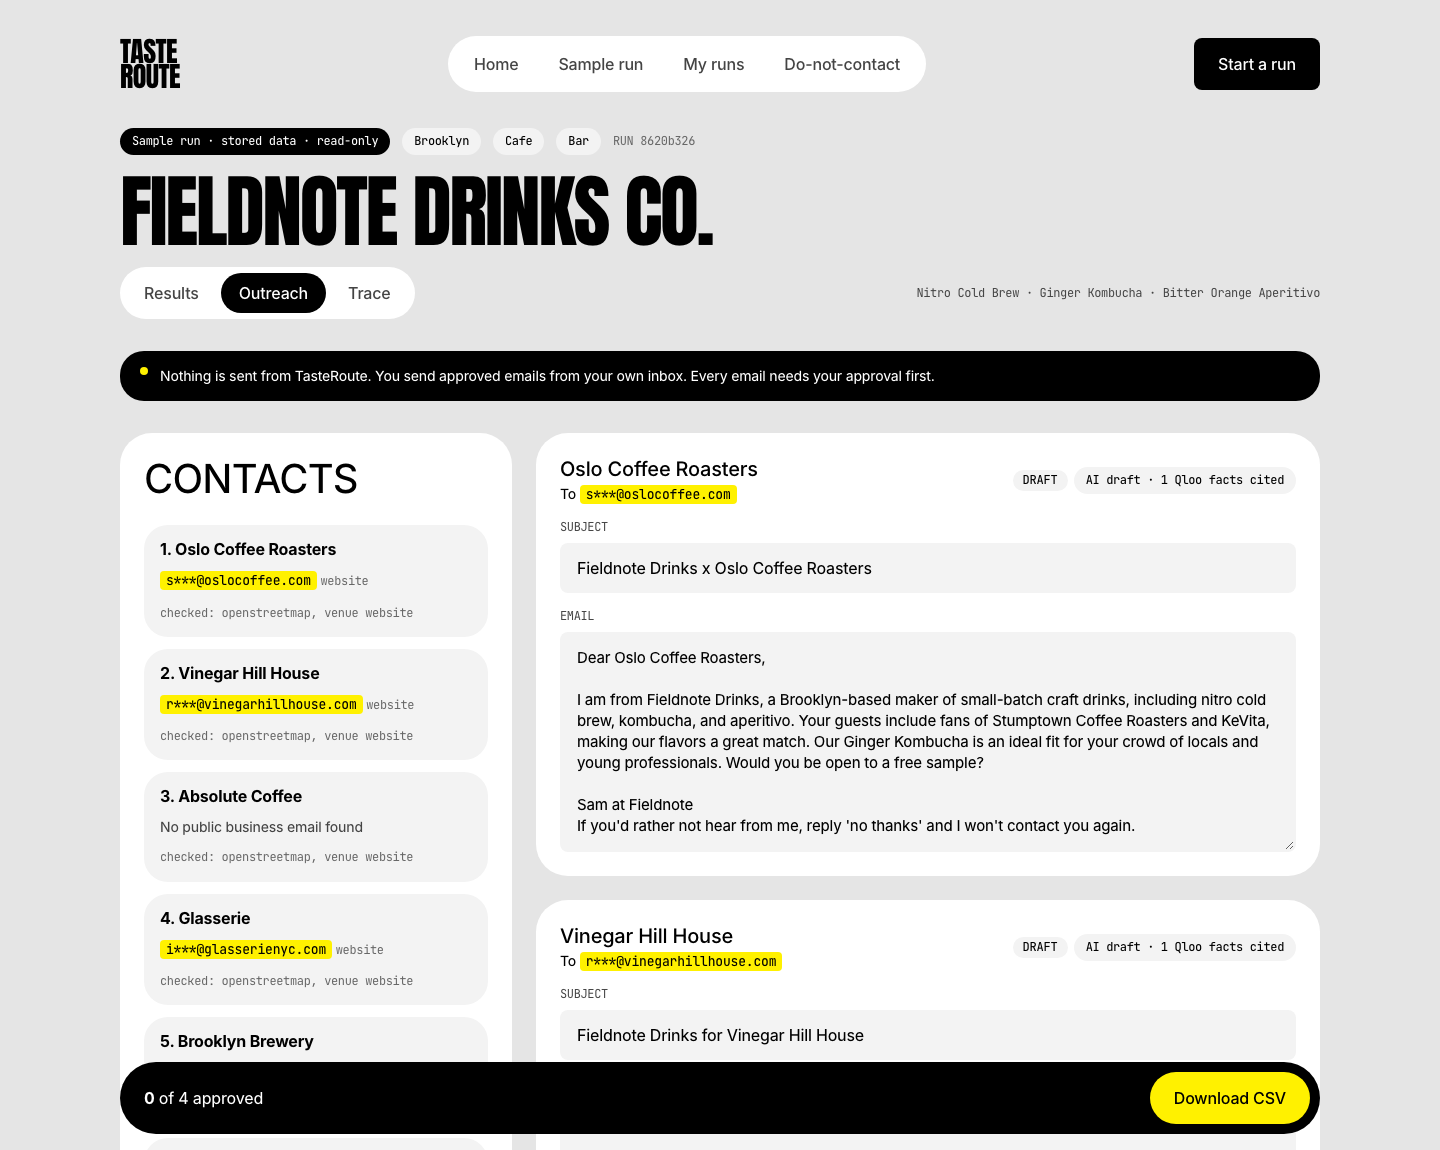
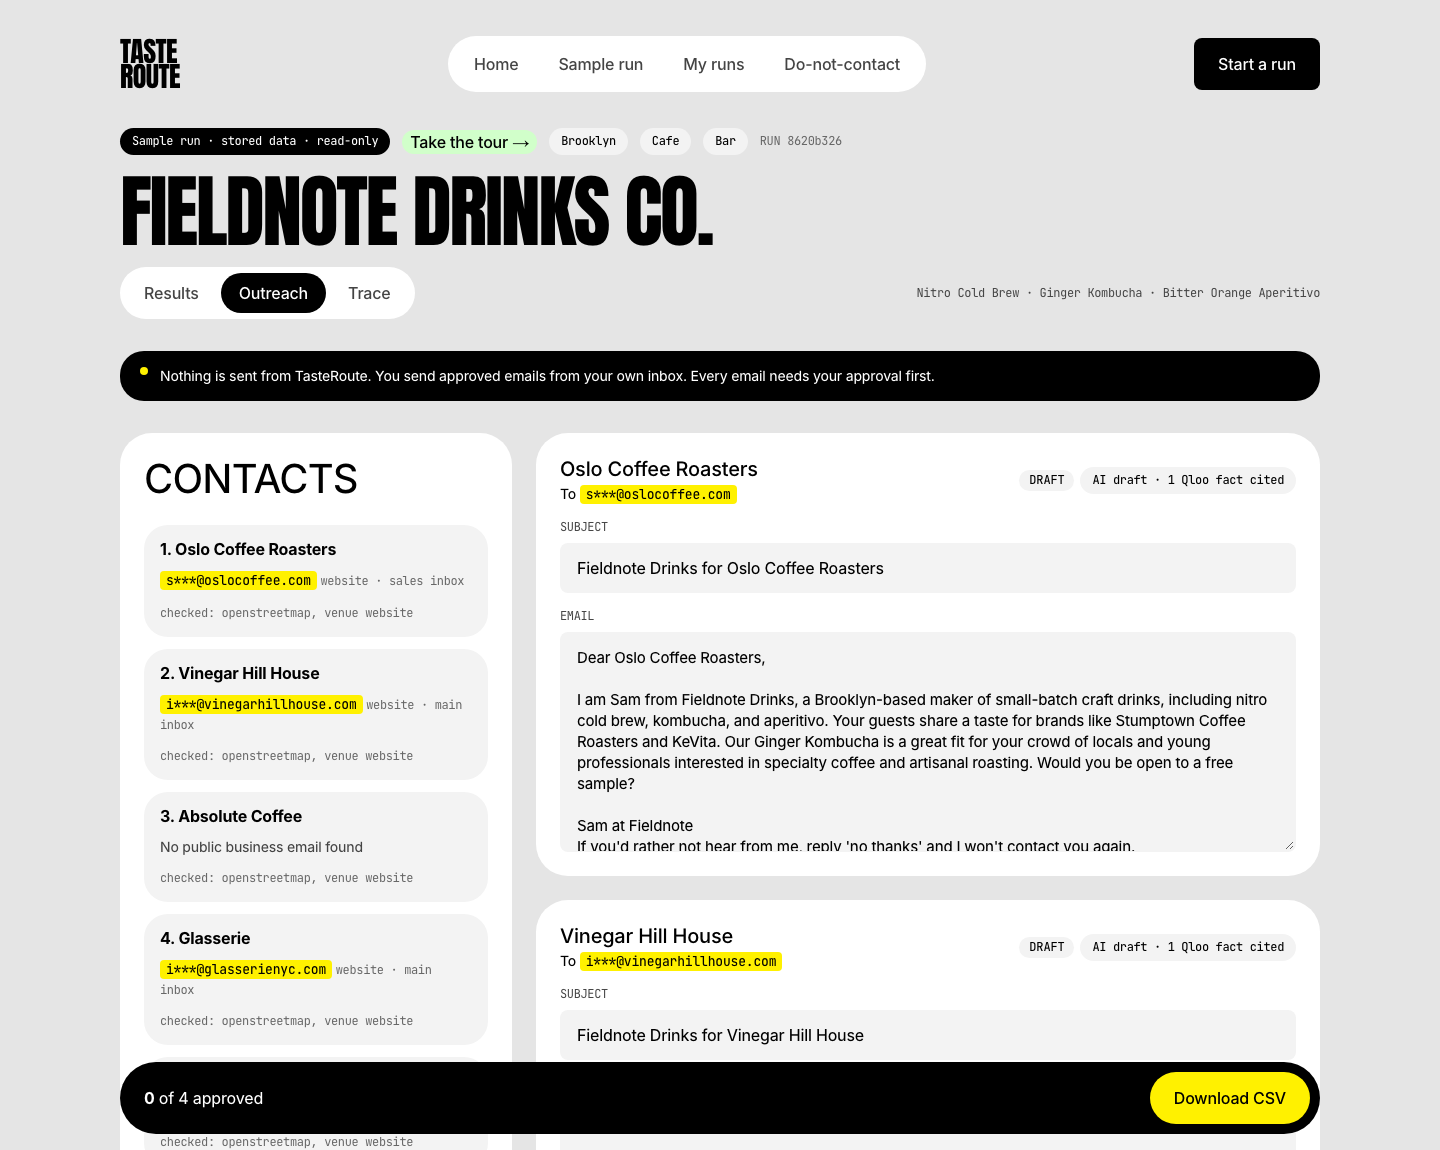
docs: README shows the map and guided tour; fresh screenshots of landing, outreach, trace, start and phone width; '1 Qloo fact cited' [REP-02, UI-01]

diff --git a/apps/web/app/runs/[id]/outreach/page.tsx b/apps/web/app/runs/[id]/outreach/page.tsx
@@ -58,7 +58,7 @@ function DraftEditor({ draft, readOnly, onChange }: { draft: S["DraftOut"]; read
         </div>
         <div className="row" style={{ gap: 6 }}>
           <span className={`status status-${draft.status}`}>{draft.status}</span>
-          <span className="tag tag-mist">{draft.source === "llm" ? `AI draft · ${draft.cited_evidence_ids.length} Qloo facts cited` : "template"}</span>
+          <span className="tag tag-mist">{draft.source === "llm" ? `AI draft · ${draft.cited_evidence_ids.length} Qloo fact${draft.cited_evidence_ids.length === 1 ? "" : "s"} cited` : "template"}</span>
         </div>
       </div>
       <label className="field">

diff --git a/README.md b/README.md
@@ -20,6 +20,7 @@ A small food or drink brand needs its first wholesale accounts. Lists of cafés 
 
 - **Which venues to pitch**, ranked by taste fit, not by how busy they are.
 - **Which product to lead with** at each one.
+- **Where they are**, on a map numbered by rank.
 - **Why**, as a reason built from Qloo's explanation, with every source one click away.
 - **A first email** that cites only that evidence, for you to edit, approve and send from your own inbox.
 
@@ -88,10 +89,18 @@ Keys stay on the API. The browser calls only FastAPI, plus public map tiles that
     <td><b>Trace.</b> Every agent step, LLM call, Qloo call and web lookup, in order. Keys never appear.</td>
     <td><b>Start.</b> Four steps: brand, profile, Qloo matches, city and venue types.</td>
   </tr>
+  <tr>
+    <td><img src="./docs/screenshots/tour.png" alt="Guided tour, step 4 of 6: the results map is outlined and a black card explains that the top 10 venues are numbered by rank."></td>
+    <td><img src="./docs/screenshots/landing.png" alt="Landing page: Find venues that share your taste, with Start a run and Take the 2-minute tour buttons."></td>
+  </tr>
+  <tr>
+    <td><b>Guided tour.</b> Walks through the sample from results to venue, outreach and trace. Esc or Skip closes it.</td>
+    <td><b>Landing.</b> Start a run, or take the tour of the sample run.</td>
+  </tr>
 </table>
 
 <p align="center">
-  <img src="./docs/screenshots/mobile.png" width="100%" alt="The landing page, results and venue detail at phone width.">
+  <img src="./docs/screenshots/mobile.png" width="100%" alt="At phone width: the landing page, the results map with the guided tour open, and venue detail for Oslo Coffee Roasters.">
 </p>
 
 ## Does Qloo change the answer?
